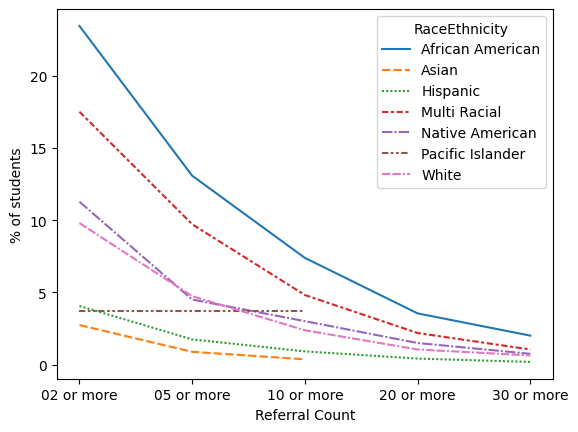
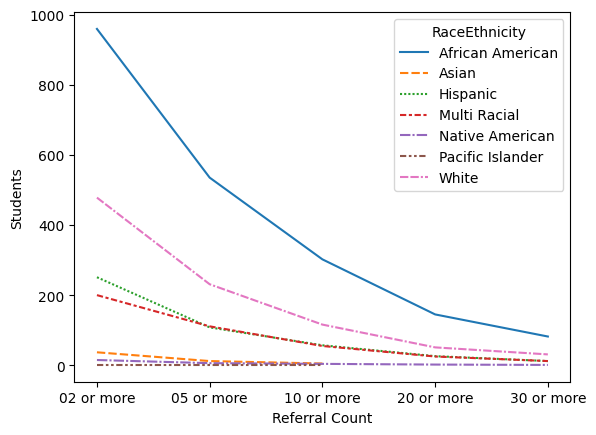
flush

diff --git a/index.html b/index.html
@@ -260,42 +260,73 @@
   </tbody>
 </table><img src="d5.png">
     <div id="overall-prek"></div>
-    <h3>Pre-K through 3</h3>
+    <h3>Pre-K through 3</h3><table border="1" class="dataframe">
+  <thead>
+    <tr style="text-align: right;">
+      <th>students</th>
+      <th>total_referrals</th>
+      <th>one_or_more</th>
+    </tr>
+  </thead>
+  <tbody>
+    <tr>
+      <td>17801</td>
+      <td>19933</td>
+      <td>3090</td>
+    </tr>
+  </tbody>
+</table>
     <p><table border="1" class="dataframe">
   <thead>
     <tr style="text-align: right;">
       <th>RaceEthnicity</th>
       <th>students</th>
+      <th>total_referrals</th>
+      <th>one_or_more</th>
     </tr>
   </thead>
   <tbody>
     <tr>
       <td>African American</td>
       <td>4089</td>
+      <td>10652</td>
+      <td>1350</td>
     </tr>
     <tr>
       <td>Asian</td>
       <td>1348</td>
+      <td>237</td>
+      <td>103</td>
     </tr>
     <tr>
       <td>Hispanic</td>
       <td>6186</td>
+      <td>2307</td>
+      <td>551</td>
     </tr>
     <tr>
       <td>Multi Racial</td>
       <td>1142</td>
+      <td>1966</td>
+      <td>291</td>
     </tr>
     <tr>
       <td>Native American</td>
       <td>133</td>
+      <td>146</td>
+      <td>23</td>
     </tr>
     <tr>
       <td>Pacific Islander</td>
       <td>27</td>
+      <td>16</td>
+      <td>4</td>
     </tr>
     <tr>
       <td>White</td>
       <td>4876</td>
+      <td>4609</td>
+      <td>768</td>
     </tr>
   </tbody>
 </table></p><table border="1" class="dataframe">
@@ -373,7 +404,7 @@
       <td>31</td>
     </tr>
   </tbody>
-</table><img src="d11.png">
+</table><img src="d12.png">
     <p>Percentage of students</p><table border="1" class="dataframe">
   <thead>
     <tr style="text-align: right;">
@@ -449,44 +480,75 @@
       <td>0.64</td>
     </tr>
   </tbody>
-</table><img src="d12.png">
+</table><img src="d13.png">
     <div id="overall-4"></div>
-    <h3>Grades 4 through 6</h3>
+    <h3>Grades 4 through 6</h3><table border="1" class="dataframe">
+  <thead>
+    <tr style="text-align: right;">
+      <th>students</th>
+      <th>total_referrals</th>
+      <th>one_or_more</th>
+    </tr>
+  </thead>
+  <tbody>
+    <tr>
+      <td>11960</td>
+      <td>30297</td>
+      <td>3754</td>
+    </tr>
+  </tbody>
+</table>
     <p><table border="1" class="dataframe">
   <thead>
     <tr style="text-align: right;">
       <th>RaceEthnicity</th>
       <th>students</th>
+      <th>total_referrals</th>
+      <th>one_or_more</th>
     </tr>
   </thead>
   <tbody>
     <tr>
       <td>African American</td>
       <td>2978</td>
+      <td>18451</td>
+      <td>1687</td>
     </tr>
     <tr>
       <td>Asian</td>
       <td>731</td>
+      <td>306</td>
+      <td>93</td>
     </tr>
     <tr>
       <td>Hispanic</td>
       <td>4372</td>
+      <td>4291</td>
+      <td>873</td>
     </tr>
     <tr>
       <td>Multi Racial</td>
       <td>680</td>
+      <td>2406</td>
+      <td>277</td>
     </tr>
     <tr>
       <td>Native American</td>
       <td>85</td>
+      <td>240</td>
+      <td>30</td>
     </tr>
     <tr>
       <td>Pacific Islander</td>
       <td>13</td>
+      <td>128</td>
+      <td>7</td>
     </tr>
     <tr>
       <td>White</td>
       <td>3101</td>
+      <td>4475</td>
+      <td>787</td>
     </tr>
   </tbody>
 </table></p><table border="1" class="dataframe">
@@ -564,7 +626,7 @@
       <td>23</td>
     </tr>
   </tbody>
-</table><img src="d21.png">
+</table><img src="d22.png">
     <p>Percentage of students</p><table border="1" class="dataframe">
   <thead>
     <tr style="text-align: right;">
@@ -640,7 +702,7 @@
       <td>0.74</td>
     </tr>
   </tbody>
-</table><img src="d22.png">
+</table><img src="d23.png">
     <div id="reasons"></div>
     <h2>Reasons for Referrals</h2>
     <div id="reasons-prek"></div>
